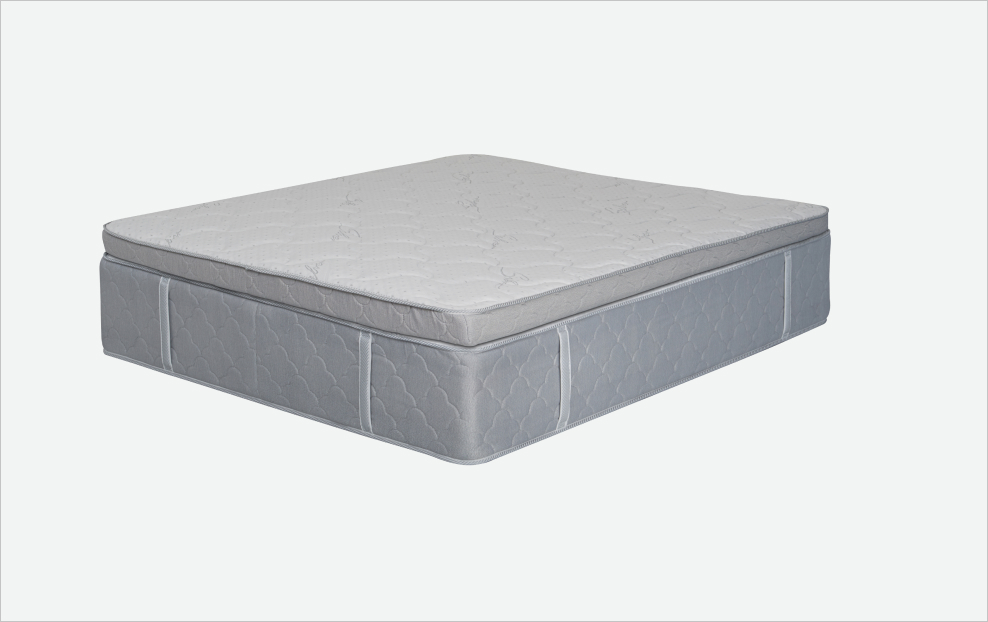
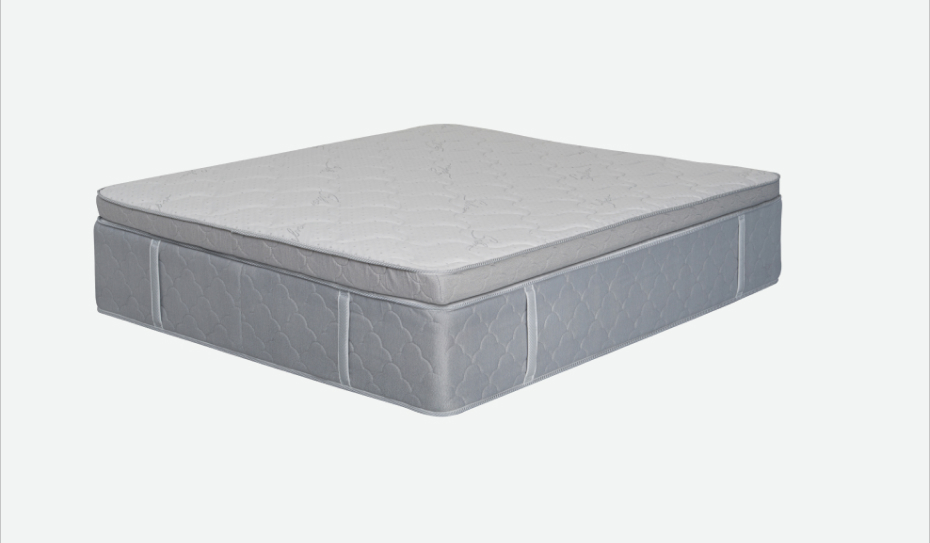
commit

diff --git a/product-page.html b/product-page.html
@@ -274,13 +274,13 @@
                     <img src='images/mattress_item-1.jpg' alt='Descr' class="first-slick_item item-1">
                 </div>
                 <div class="first-slick_item">
-                    <img src="images/Rectangle10.jpg">
+                    <img src="images/mattress_item-2.jpg">
                 </div>
                 <div class="first-slick_item">
-                    <img src="images/Rectangle11.jpg">
+                    <img src="images/mattress_item-3.jpg">
                 </div>
                 <div class="first-slick_item">
-                    <img src="images/Rectangle12.jpg">
+                    <img src="images/mattress_item-4.jpg">
                 </div>
             </section>
             <div class="characteristics-container">
